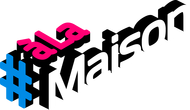
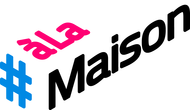
Added Ultra HD.

diff --git a/README.md b/README.md
@@ -1,4 +1,4 @@
-# Austrian, German and Swiss TV and radio logos for MediaPortal 1
+# Austrian, French, German and Swiss TV and radio logos for MediaPortal 1
 
 ## Introduction
 
